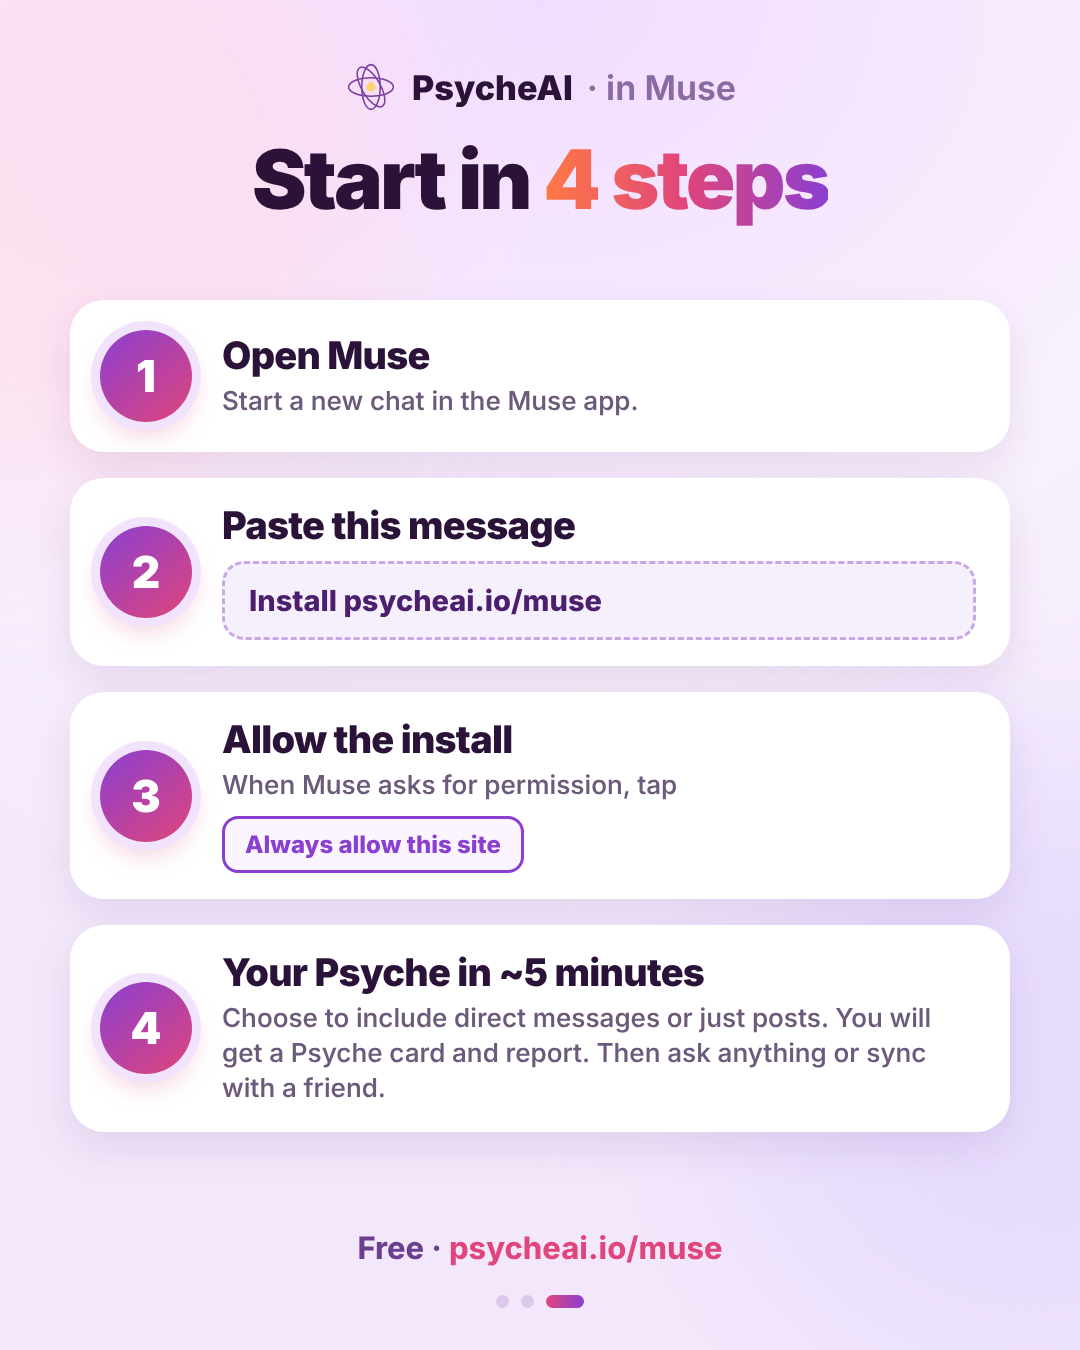
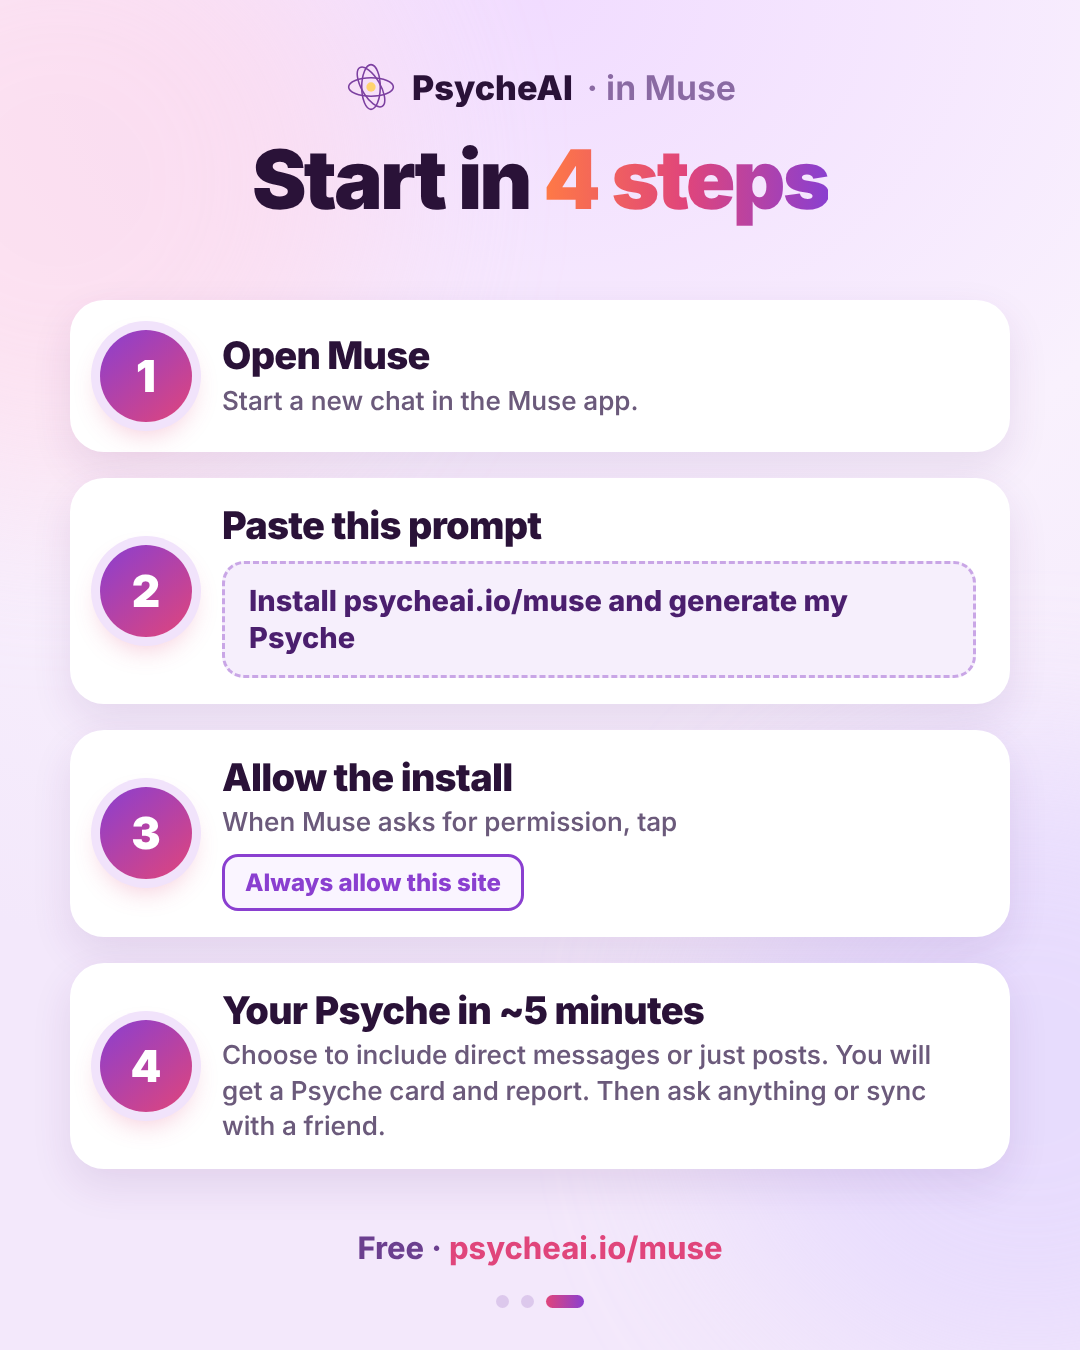
Muse reel: shorter lines, "Your character", narration on the beat with a softer move into the privacy break, the full install prompt at the end; carousel step 2 shows the full prompt
Claude-Session: https://claude.ai/code/session_01Fuzsy19nH9JnecaSEhjjzX

Changed region(s): [[0.0611, 0.3733, 0.9472, 0.8711], [0.55, 0.4356, 0.7944, 0.4667], [0.3972, 0.3733, 0.55, 0.4044]]

diff --git a/promo/stage.html b/promo/stage.html
@@ -262,8 +262,10 @@ $('mark').innerHTML = markSvg; $('mark2').innerHTML = markSvg.replace(/<path /g,
 // The Muse version (config.json "script": "muse", vo.py SCRIPTS): its own words for the data, the report,
 // privacy and the ending, and the sources Muse reads (no Google).
 if (CONFIG.script === 'muse') {
-  document.querySelector('#s4 .big').innerHTML = '<span class="grad">PsycheAI</span> analyses your data that is already connected to your <span class="grad">Muse app,</span> with <span class="grad">no uploading</span> required.';
-  document.querySelector('#s4 .big').style.fontSize = '66px';
+  document.querySelector('#s4 .big').innerHTML = '<span class="grad">PsycheAI</span> reads what\'s already in your <span class="grad">Muse app</span> with <span class="grad">no upload</span> required.';
+  document.querySelector('#s4 .big').style.fontSize = '72px';
+  document.querySelector('#s3 .big').innerHTML = '<span class="soft">And what if your</span> <span class="grad">digital footprint</span> could show you patterns you\'ve never noticed before?';
+  document.querySelector('#s1 .big').innerHTML = '<span class="soft">…you could get a</span> <span class="grad">full personality study…</span>';
   $('f1').querySelector('.ext').textContent = 'MUSE'; $('f1').querySelector('.sub').textContent = 'posts, stories, chats';
   $('f3').querySelector('.ext').textContent = 'MUSE'; $('f3').querySelector('.sub').textContent = 'posts, Messenger';
   $('f4').querySelector('.ext').textContent = 'MUSE'; $('f4').querySelector('.sub').textContent = 'chats';
@@ -293,12 +295,13 @@ if (CONFIG.script === 'muse') {
   ['ringTick', 'ringBg', 'ringArc'].forEach(id => { $(id).style.display = 'none'; });
   $('ring').insertAdjacentHTML('beforeend', '<g id="venn" fill="none" stroke="url(#rg)" stroke-width="14"><circle cx="74" cy="100" r="44" stroke-dasharray="277" stroke-dashoffset="277"/><circle cx="126" cy="100" r="44" stroke-dasharray="277" stroke-dashoffset="277"/></g>');
   // The ending says the address on screen; the voice only says where.
-  document.querySelector('#s9').insertAdjacentHTML('beforeend', '<div class="big" id="pasteNote" style="top:1375px;font-size:40px;text-align:center;opacity:0">Paste this into your Muse app:</div>');
-  $('cta').style.top = '1450px';
+  document.querySelector('#s9').insertAdjacentHTML('beforeend', '<div class="big" id="pasteNote" style="top:1375px;font-size:40px;text-align:center;opacity:0">Paste this prompt into Muse:</div>');
+  // The whole prompt, the one that works best in Muse, on two lines (README "The Muse reel").
+  Object.assign($('cta').style, { top: '1450px', whiteSpace: 'normal', width: '820px', textAlign: 'center', lineHeight: '1.18', borderRadius: '48px', fontSize: '46px', padding: '26px 50px' });
   document.querySelector('#s6 .big').innerHTML = 'And your<br><span class="grad">Psyche Report</span>';
   $('p1').innerHTML = 'Your data is processed directly in <span class="grad">your Muse app.</span>';
   $('p2').innerHTML = 'Your messages are <span class="grad" style="white-space:nowrap">de&#8209;identified.</span>';
-  $('p3').innerHTML = 'PsycheAI keeps <span class="grad">no copy</span> of your data or report.';
+  $('p3').innerHTML = 'None of your data or report goes to <span class="grad">PsycheAI.</span>';
   $('sw1').children[1].textContent = '"Friend A"'; $('sw2').children[1].textContent = '"[email]"'; $('sw3').children[1].textContent = '[handle]';
   document.querySelector('#s9 .big[data-words]').innerHTML = 'Your <span class="grad">Psyche</span> is free in Muse!';
 }
@@ -370,7 +373,7 @@ PARTS.interestsValues = { x: PARTS.standFor.x, y: PARTS.standFor.y, w: PARTS.big
 PARTS.typeTraits = { x: PARTS.type.x, y: Math.min(PARTS.type.y, PARTS.bigFive.y), w: PARTS.bigFive.x + PARTS.bigFive.w - PARTS.type.x,
   h: Math.max(PARTS.type.y + PARTS.type.h, PARTS.bigFive.y + PARTS.bigFive.h) - Math.min(PARTS.type.y, PARTS.bigFive.y) };
 // One box per phrase of the card line, after "You'll get a Psyche Card."
-const HL = [['character', 'Which character you are most like'], ['patterns', 'Signature patterns'], ['motives', 'Your motivations'],
+const HL = [['character', CONFIG.script === 'muse' ? 'Your character' : 'Which character you are most like'], ['patterns', 'Signature patterns'], ['motives', 'Your motivations'],
   ['typeTraits', 'Type & Traits'], ['interestsValues', 'Interests & values'], ['love', 'Love languages'],
   ['syncs', 'Most in sync with']];
 const hlEls = HL.map(([key, label]) => {

diff --git a/promo/carousel-muse.html b/promo/carousel-muse.html
@@ -3,7 +3,7 @@
 <style>
 /* The Instagram carousel for PsycheAI in Muse (three slides, 1080 x 1350, 4:5): node promo/carousel-muse.mjs
    Slide 2's words are the Muse welcome's four privacy lines (psycheai-app lib/mcp.js GO_AHEAD), shortened
-   to fit; slide 3 is the install line (psycheai-app lib/skill.js installPrompt), Muse's permission card ("Always allow this site", as /install says) and the welcome's messages choice.
+   to fit; slide 3 is the full install prompt ("Install psycheai.io/muse and generate my Psyche", the one that brings the welcome most reliably), Muse's permission card ("Always allow this site", as /install says) and the welcome's messages choice.
    Change them together. The mascot is promo/assets/muse-mascot.jpg, as in the Muse reel. */
 @font-face { font-family: Inter; src: url('assets/inter.woff2') format('woff2'); font-weight: 100 900; }
 * { box-sizing: border-box; margin: 0; padding: 0; }
@@ -99,7 +99,7 @@ h1 { position: absolute; left: 60px; right: 60px; text-align: center; font-size:
   <h1>Start in <span class="grad">4 steps</span></h1>
   <div class="cards">
     <div class="card"><span class="num">1</span><div><b>Open Muse</b><span class="d">Start a new chat in the Muse app.</span></div></div>
-    <div class="card"><span class="num">2</span><div><b>Paste this message</b><div class="paste">Install psycheai.io/muse</div></div></div>
+    <div class="card"><span class="num">2</span><div><b>Paste this prompt</b><div class="paste">Install psycheai.io/muse and generate my Psyche</div></div></div>
     <div class="card"><span class="num">3</span><div><b>Allow the install</b><span class="d">When Muse asks for permission, tap</span><div class="btns"><em class="pick">Always allow this site</em></div></div></div>
     <div class="card"><span class="num">4</span><div><b>Your Psyche in ~5 minutes</b><span class="d">Choose to include direct messages or just posts. You will get a Psyche card and report. Then ask anything or sync with a friend.</span></div></div>
   </div>

diff --git a/promo/vo.py b/promo/vo.py
@@ -7,7 +7,7 @@ The voice varies from take to take, so each line is spoken several times, a spee
 recogniser transcribes every take, and the one closest to the script is kept. Phrase
 starts come from that take's pauses: the longest silences, one per phrase boundary.
 """
-import json, os, re, difflib, numpy as np, soundfile as sf, sherpa_onnx
+import json, math, os, re, difflib, numpy as np, soundfile as sf, sherpa_onnx
 from piper import PiperVoice, SynthesisConfig
 
 HERE = os.path.dirname(os.path.abspath(__file__))
@@ -62,13 +62,25 @@ END = 'Your first Psyche Card is free!'
 
 # A version with "script" in config.json says some lines its own way (README "The Muse reel"), by line number:
 # in Muse, the Instagram is read where they are, the report comes with the card, and privacy is Muse's own.
+# A script's lines can also be said on the beat (config.json "onBeat"): each phrase starts on the music's half-beat
+# grid (BEAT in audio.py), and audio.py starts each line on it too, so the voice falls in with the music.
 SCRIPTS = {'muse': {
+    # Shorter than the main reel's (4 Nov 2026): "of yourself" said nothing more.
+    2: (['you could get a full personality study,'], 0.87, None),
+    4: (["And what if your digital footprint,", "could show you patterns you've never noticed before?"], 1.0, True, 0.38),
     # "Muse" mid-phrase: ending a phrase, its quiet "z" was trimmed off and it sounded like "mew".
-    5: (['{B} analyses your data that is already connected to your Muse app,', 'with no uploading required.'], 0.95, True, 0.06),
-    7: (['And your Psyche Report,', 'with the full explanations,', 'how you connect,', 'how you work,', 'and a plan to grow.'], 0.87, True),
+    5: (["{B} reads what's already in your Muse app", 'with no upload required.'], 0.95, True, 0.06),
+    6: ([("You will get a Psyche Card.", 1.0), "Your character,", 'signature patterns,', 'motivations,',
+         'type and traits,', 'interests and values,', 'love languages,', "and who you sync with."],
+        0.87, True, [0.45] + [0.02] * 6),
+    7: (['And your Psyche Report,', 'with the full explanations,', 'how you connect,', 'how you work,', 'and a plan to grow.'], 0.87, True, 0.02),
+    # Line 8 as the main reel says it, recorded again here only to be said on the beat.
+    8: (['Then sync with a friend', 'to see what clicks.'], 0.92, True, 0.06),
     # "processed", not "read": in "is read" the word is always said like "red", which sounded like the past tense.
-    9: (['Your data is processed directly in your Muse app.', 'Your messages are de-identified.', 'And {B} keeps no copy of your data or report.'], 0.92, None),
+    9: (['Your data is processed directly in your Muse app.', 'Your messages are de-identified.', 'And none of your data or report goes to {B}.'], 0.92, True, 0.2),
 }}
+# The music's tempo (audio.py BPM), for lines said on the beat.
+BPM = 118; HALF = 60 / BPM / 2
 
 # Other names the voice gets wrong, given as sounds the same way: {Mulan} (it said "Meellen"; "Moo-larn", as the
 # owner says it, since 24 October 2026, where it was "moo-lan") and {Odysseus} ("Utysis"). The recogniser hears
@@ -165,15 +177,17 @@ def best_take(text, ls):
         if score == 1.0: break
     return best
 
-def speak(phrases, ls, split, pause=0.06):
-    """One line: its audio, where each phrase after the first starts, and how it scored."""
+def speak(phrases, ls, split, pause=0.06, beat=False):
+    """One line: its audio, where each phrase after the first starts, and how it scored. On the beat, the
+    pause is the least gap, and each phrase waits for the next half-beat from the line's own start."""
     if split:
         out, cuts, t, scores = [], [], 0.0, []
         for k, p in enumerate(phrases):
             text, pace = p if isinstance(p, tuple) else (p, ls)
             score, a = best_take(text, pace)
             gap = (pause[k - 1] if isinstance(pause, list) else pause) if k else 0
-            if k: out.append(np.zeros(int(gap * SR), np.float32)); t += gap; cuts.append(round(t, 3))
+            if k and beat: gap = math.ceil((t + gap) / HALF - 1e-6) * HALF - t
+            if k: out.append(np.zeros(int(round(gap * SR)), np.float32)); t += gap; cuts.append(round(t, 3))
             out.append(a); t += len(a) / SR; scores.append(round(score, 2))
         return np.concatenate(out), cuts, True, min(scores), 'phrase scores ' + str(scores)
     best = None
@@ -218,8 +232,8 @@ def word_times(a, script):
         else: out.append(len(a) / SR * i / max(1, len(want)))
     return [[w, round(t, 3)] for w, t in zip(want, out)]
 
-def write(name, phrases, ls, split, pause=0.06):
-    a, cuts, ok, score, got = speak(phrases, ls, split, pause)
+def write(name, phrases, ls, split, pause=0.06, beat=False):
+    a, cuts, ok, score, got = speak(phrases, ls, split, pause, beat)
     a = a / np.max(np.abs(a)) * 0.9
     sf.write(f'{OUT}/{name}.wav', a, SR, subtype='PCM_16')
     print(name, f'{len(a) / SR:.2f}s', 'score', round(score, 3), 'pauses ok' if ok else 'PAUSES?', [0.0] + cuts, '|', got)
@@ -234,6 +248,8 @@ if __name__ == '__main__':
     for version, settings in CONFIG.items():
         script = settings.get('script')
         if script and script not in marks['alt']:
-            marks['alt'][script] = {str(i): write(f'l{i:02d}-{script}', *line) for i, line in SCRIPTS[script].items()}
-        marks['end'][version] = write(f'l{len(LINES) + 1:02d}-' + version, [settings.get('end', END), settings['spoken']], 0.9, True)
+            marks['alt'][script] = {str(i): write(f'l{i:02d}-{script}', *line, beat=bool(settings.get('onBeat')))
+                                    for i, line in SCRIPTS[script].items()}
+        marks['end'][version] = write(f'l{len(LINES) + 1:02d}-' + version, [settings.get('end', END), settings['spoken']], 0.9, True,
+                                      beat=bool(settings.get('onBeat')))
     json.dump(marks, open(OUT + '/marks.json', 'w'))

diff --git a/promo/audio.py b/promo/audio.py
@@ -47,8 +47,14 @@ SNAP = {1: BEAT / 2, 2: BEAT / 2, 3: BEAT / 2, 4: BEAT, 5: BEAT, 6: BEAT, 7: BEA
 HOLD = {}
 snap = lambda x, step: math.ceil(x / step - 1e-6) * step
 scenes, t = [], 0.0
+# On the beat (config.json "onBeat", vo.py): each line's first sound lands on the half-beat grid, as its
+# phrases do inside it. A take starts PRE before its first sound (vo.py trim), and the lead moves by at most
+# a fraction of a beat to get there.
+ONBEAT = bool(json.load(open(HERE + '/config.json')).get(VERSION, {}).get('onBeat'))
+PRE = 0.06
 for i, d in enumerate(dur):
     lead = 0.35 if i == 0 else LEAD + EXTRA_LEAD.get(i, 0)
+    if ONBEAT: lead = snap(t + lead + PRE - 0.03, BEAT / 2) - PRE - t
     length = max(lead + d + GAP + HOLD.get(i, 0), minimum.get(i, 0))
     # The end card holds a little longer, on the card the carousel landed on.
     # The end card holds a little longer, on the card the carousel landed on.
@@ -193,7 +199,12 @@ for bar in range(int(TOTAL / BAR) + 2):
     a0 = bar * BAR
     if a0 >= TOTAL: break
     if a0 < DROP or BREAK <= a0 < FINAL:
-        at(a0, stab(CHORDS[bar % 4], BAR * 1.05) * 1.6, 0.8)
+        pad = stab(CHORDS[bar % 4], BAR * 1.05) * 1.6
+        # On the beat, the break lands on a bar line, so its first pad came in full at the very moment the
+        # drums stopped, and the cut sounded abrupt: it fades in over two beats instead.
+        if ONBEAT and abs(a0 - BREAK) < 0.02:
+            k = min(len(pad), int(2 * BEAT * SR)); pad[:k] *= np.linspace(0, 1, k) ** 1.5
+        at(a0, pad, 0.8)
 
 # The two big moments, the data going in and the end card, get the riser and the hit; the card and
 # report cuts a soft swoosh into them, which sat better than a hit on every cut. Sync follows the
@@ -201,6 +212,10 @@ for bar in range(int(TOTAL / BAR) + 2):
 at(DROP - 2.2, riser(2.2), 1.0); at(DROP, impact(), 1.0)
 for k in (5, 6): at(sc[k]['start'] - 0.5, swell(0.5), 1.0)
 at(FINAL - 1.6, riser(1.6), 0.9); at(FINAL, impact(), 1.0)
+# On the beat, into the privacy break: a soft swoosh over the last beat and a low, quiet hit on the cut,
+# so the beat lands into the break rather than stopping dead (4 Nov 2026, the Muse reel).
+if ONBEAT:
+    at(BREAK - BEAT, swell(BEAT), 0.9); at(BREAK, lowpass(impact(), 500), 0.5)
 
 music[:, 0] *= pump[:n]; music[:, 1] *= pump[:n]
 fade = np.ones(n, np.float32)

diff --git a/promo/README.md b/promo/README.md
@@ -27,7 +27,10 @@ frames. It needs `python3`, `curl` and the repo's `npm install` (for Playwright)
 `"script": "muse"` swaps three lines for its own (`SCRIPTS` in `vo.py`, the words on screen in `stage.html`); the
 music is the main reel's (a crescendo moved onto the sources being pulled in, and a ringing last chord, were tried
 and taken out: both sounded worse).
-- the data: "PsycheAI analyses your data that is already connected to your Muse app, with no uploading required."
+- the hook: "…you could get a full personality study, without answering a single question?" ("of yourself" dropped, 4 Nov 2026),
+  and "And what if your digital footprint could show you patterns you've never noticed before?"
+- the data: "PsycheAI reads what's already in your Muse app with no upload required." (shortened from "PsycheAI analyses your
+  data that is already connected to your Muse app, with no uploading required.", 4 Nov 2026)
   The mascot (`assets/muse-mascot.jpg`, an original image the owner supplied: a fluffy pastel creature holding an orb)
   stands below the words, its background faded into the reel's (a radial mask), with the PsycheAI mark glowing inside
   its orb, while Instagram, Facebook and WhatsApp circle it and are pulled into the orb. Meta's own characters, and
@@ -38,12 +41,26 @@ and taken out: both sounded worse).
   the camera pushes into the orb (`museLayer`, its own layer, since `scene()` scales the scene) and flashes white
   into the Psyche Card. The mark sits on the orb's centre measured on a grid over the image (631, 976 of 1152 × 1728). "Muse" sits mid-phrase: ending a phrase, its quiet "z"
   was trimmed off and it sounded like "mew".
+- the card: "Your character, signature patterns, motivations…", the list without the repeated "your", and the first
+  highlight's tag "Your character" (the main reel keeps "Which character you're most like").
 - the report: "And your Psyche Report…", since it is free there, not unlocked.
-- privacy: "Your data is processed directly in your Muse app. Your messages are de-identified. And PsycheAI keeps no
-  copy of your data or report." ("processed": "is read" is always said like "red" and sounded past tense.)
+- privacy: "Your data is processed directly in your Muse app. Your messages are de-identified. And none of your data
+  or report goes to PsycheAI." ("processed": "is read" is always said like "red" and sounded past tense.) It said
+  "PsycheAI keeps no copy of your data or report" until 4 Nov 2026: the skill now writes the report and draws the card
+  in Muse, so neither reaches PsycheAI at all, and "keeps no copy" undersold it.
 - Sync: two linked rings between the cards, larger, with no ring round them, instead of the tick.
-- the ending (`end`, `spoken`): "Your Psyche is free in Muse! Paste the link below into your Muse app to begin.", with
-  "Paste this into your Muse app:" over the psycheai.io/muse button.
+- the ending (`end`, `spoken`): "Your Psyche is free in Muse! Paste the prompt below into Muse to begin.", with
+  "Paste this prompt into Muse:" over the whole prompt on two lines, "Install psycheai.io/muse and generate my
+  Psyche": the prompt that brings the welcome most reliably in Muse (psycheai-app README "The welcome, word for word
+  again"). It was the psycheai.io/muse button until 4 Nov 2026.
+
+- **On the beat** (`"onBeat": true`, 4 Nov 2026): every line starts with its first sound on the music's half-beat grid
+  (118 BPM, so every 0.254 s), and each phrase inside a line waits for the next half-beat after its least gap (vo.py
+  `speak(beat=True)`, audio.py `ONBEAT`), so the lists and sentences fall in with the music instead of drifting
+  across it. Lines 4 and 8 are the main reel's words, recorded again for it only to be said this way, and the privacy
+  line is now three phrases recorded one by one. The privacy break then fell on a bar line, so the drums stopped and
+  the first pad came in full at the same instant, which sounded abrupt: on the beat, a soft swoosh leads into the
+  break, a low, quiet hit lands on it, and its first pad fades in over two beats.
 
 The other versions are unchanged. `npm run promo -- muse` builds it.
 
